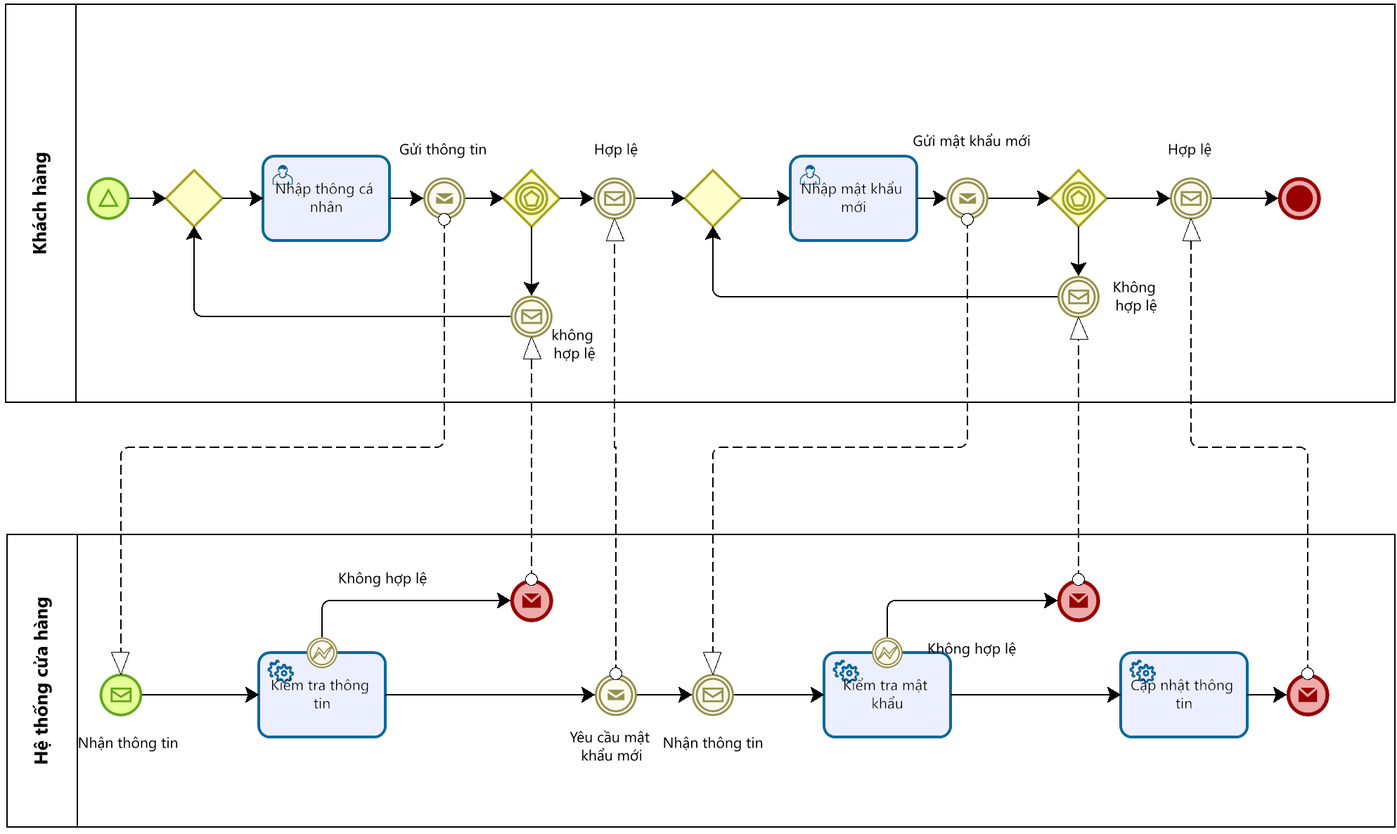
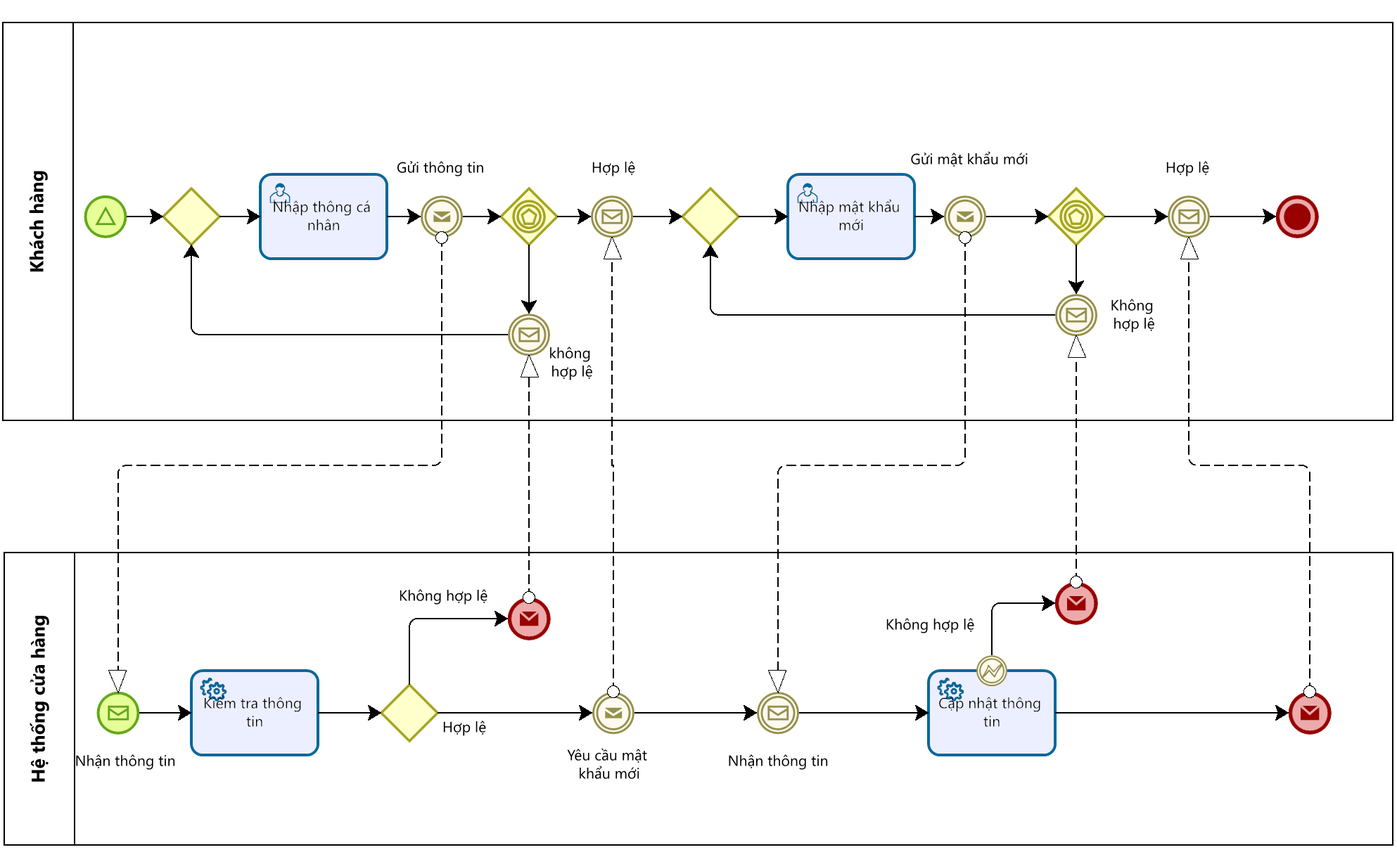
update BPMN

diff --git a/tex/BPMN-diagram.tex b/tex/BPMN-diagram.tex
@@ -3,178 +3,195 @@
 
 Các lược đồ BPMN được nhóm thiết kế trên app Bizagi.
 \subsection{Khách hàng mua hàng}
-    \begin{figure}[!htp]
-        \centering
-        \includegraphics[width=17cm]{img/BPMN/customer_buy/customer_buy.png}
-        \newline
-        \caption{Lược đồ BPMN cho quy trình khách hàng mua hàng}
-    \end{figure}
-    \textbf{Mô tả:} Quy trình bắt đầu khi người dùng bắt đầu truy cập vào trang web, khách hàng chọn cách thức mua hàng là bắt đầu từ tìm sản phẩm hoặc là bắt đầu mua từ những sản phẩm đã có sẵn trong giỏ hàng. Khi người dùng chọn tìm sản phẩm thì người dùng sẽ thực hiện quy trình con (sub-process) "Tìm sản phẩm". Sau khi thực hiện xong tìm sản phẩm và tìm thấy thì người dùng thực hiện xem thông tin chi tiết để hiểu rõ hơn về sản phẩm và quyết định có muốn thêm sản phẩm vào giỏ hàng hay không; hoặc khi người dùng đã biết về sản phẩm thì có thể thêm chọn thêm nhanh sản phẩm vào giỏ hàng. Sau khi thêm sản phẩm vào giỏ hàng thì người dùng thực hiện quy trình con quản lý giỏ hàng để lựa chọn cũng như cập nhật các đặc điểm mà người dùng mong muốn ở sản phẩm. Sau khi quản lý xong giỏ hàng thì người dùng cần chọn hành động tiếp tục tìm kiếm thêm sản phẩm để mua hàng hoặc là trực tiếp đi đến quy trình con "Mua hàng" và sau đó là kết thúc quy trình.
+\begin{figure}[!htp]
+	\centering
+	\includegraphics[width=17cm]{img/BPMN/customer_buy/customer_buy.png}
+	\newline
+	\caption{Lược đồ BPMN cho quy trình khách hàng mua hàng}
+\end{figure}
+\textbf{Mô tả:} Quy trình bắt đầu khi người dùng bắt đầu truy cập vào trang web, khách hàng chọn cách thức mua hàng là bắt đầu từ tìm sản phẩm hoặc là bắt đầu mua từ những sản phẩm đã có sẵn trong giỏ hàng. Khi người dùng chọn tìm sản phẩm thì người dùng sẽ thực hiện quy trình con (sub-process) "Tìm sản phẩm". Sau khi thực hiện xong tìm sản phẩm và tìm thấy thì người dùng thực hiện xem thông tin chi tiết để hiểu rõ hơn về sản phẩm và quyết định có muốn thêm sản phẩm vào giỏ hàng hay không; hoặc khi người dùng đã biết về sản phẩm thì có thể thêm chọn thêm nhanh sản phẩm vào giỏ hàng. Sau khi thêm sản phẩm vào giỏ hàng thì người dùng thực hiện quy trình con quản lý giỏ hàng để lựa chọn cũng như cập nhật các đặc điểm mà người dùng mong muốn ở sản phẩm. Sau khi quản lý xong giỏ hàng thì người dùng cần chọn hành động tiếp tục tìm kiếm thêm sản phẩm để mua hàng hoặc là trực tiếp đi đến quy trình con "Mua hàng" và sau đó là kết thúc quy trình.
 
 
-    \begin{figure}[!htp]
-        \centering
-        \includegraphics[width=13cm]{img/BPMN/customer_buy/customer_search_product.png}
-        \newline
-        \caption{Lược đồ BPMN cho quy trình con tìm kiếm sản phẩm}
-    \end{figure}
-    \textbf{Mô tả:} Đây là 1 quy trình con chứa quy trình tìm kiếm sản phẩm mà người dùng muốn tìm kiếm. Bắt đầu từ việc chọn cách duyệt bằng cách duyệt theo ngẫu hứng hay duyệt theo ý muốn. Khi người dũng duyệt theo ý muốn thì thực hiện quy trình con "Chọn loại sản phẩm" để chọn nhưng loại sản phẩm theo ý muốn của khách hàng. Sau khi chọn loại sản phẩm thì hệ thống sẽ nhận thông tin và xử lý, sau đó phản hồi kết quả và người dùng kiểm tra kết quả tìm kiếm và kết thúc quy trình con này.
+\begin{figure}[!htp]
+	\centering
+	\includegraphics[width=13cm]{img/BPMN/customer_buy/customer_search_product.png}
+	\newline
+	\caption{Lược đồ BPMN cho quy trình con tìm kiếm sản phẩm}
+\end{figure}
+\textbf{Mô tả:} Đây là 1 quy trình con chứa quy trình tìm kiếm sản phẩm mà người dùng muốn tìm kiếm. Bắt đầu từ việc chọn cách duyệt bằng cách duyệt theo ngẫu hứng hay duyệt theo ý muốn. Khi người dũng duyệt theo ý muốn thì thực hiện quy trình con "Chọn loại sản phẩm" để chọn nhưng loại sản phẩm theo ý muốn của khách hàng. Sau khi chọn loại sản phẩm thì hệ thống sẽ nhận thông tin và xử lý, sau đó phản hồi kết quả và người dùng kiểm tra kết quả tìm kiếm và kết thúc quy trình con này.
 
-    \begin{figure}[!htp]
-        \centering
-        \includegraphics[width=12cm]{img/BPMN/customer_buy/customer_select_type.png}
-        \newline
-        \caption{Lược đồ BPMN cho quy trình con chọn loại sản phẩm mà khác hàng muốn tìm}
-    \end{figure}
-    \textbf{Mô tả:} Đây là 1 quy trình con chứa quy trình chọn loại sản phẩm mà người dùng muốn tìm kiếm. Bắt đầu từ việc chọn loại duyệt thì người dùng có thể chọn duyệt theo thể loại hoặc duyệt theo tên tìm kiếm hoặc duyệt theo sự kiện.
-    
-    \begin{figure}[!htp]
-        \centering
-        \includegraphics[width=12cm]{img/BPMN/customer_buy/customer_product_detail.png}
-        \newline
-        \caption{Lược đồ BPMN cho quy trình xem xét thông tin chi tiết của sản phẩm}
-    \end{figure}
-    \textbf{Mô tả:} Đây là 1 quy trình con chứa quy trình xem thông tin chi tiết của sản phẩm, sau khi khách hàng chọn sản phẩm muốn xem thông tin chi tiết thì hệ thống sẽ thực hiện lấy thông tin chi tiết sản phẩm từ cơ sở dữ liệu và phản hồi kết quả về cho khách hàng. Sau khi nhận được kết quả thì khách hàng xem thông tin chi tiết của sản phẩm và kết thúc quy trình.
+\begin{figure}[!htp]
+	\centering
+	\includegraphics[width=12cm]{img/BPMN/customer_buy/customer_select_type.png}
+	\newline
+	\caption{Lược đồ BPMN cho quy trình con chọn loại sản phẩm mà khác hàng muốn tìm}
+\end{figure}
+\textbf{Mô tả:} Đây là 1 quy trình con chứa quy trình chọn loại sản phẩm mà người dùng muốn tìm kiếm. Bắt đầu từ việc chọn loại duyệt thì người dùng có thể chọn duyệt theo thể loại hoặc duyệt theo tên tìm kiếm hoặc duyệt theo sự kiện.
 
-    \begin{figure}[!htp]
-        \centering
-        \includegraphics[width=15cm]{img/BPMN/customer_buy/customer_add_to_card.png}
-        \newline
-        \caption{Lược đồ BPMN cho quy trình thêm sản phẩm vào giỏ hàng}
-    \end{figure} 
-    \textbf{Mô tả:} Đây là 1 quy trình con chứa quy trình thêm sản phẩm vào giỏ hàng, sau khi khách hàng xem thông tin chi tiết và muốn mua sản phẩm thì người dùng các thông tin sản phẩm mà khách hàng muốn thêm sau đó xác nhận thêm vào giỏ hàng. Thông tin sản phẩm khách hàng chọn thêm vào giỏ hàng được gửi đi và hệ thống thực hiện kiểm tra tài khoản khách hàng đã đăng nhập chưa, sau khi xác nhận được đã đăng nhập thì hệ thống kiểm tra thông tin và cập nhật thông tin sản phẩm vào giỏ hàng, sau đó gửi kết quả về phía khách hàng. Sau khi nhận được kết quả thì người dùng kiểm tra kết quả và kết thúc quy trình.
-     
-    \begin{figure}[!htp]
-        \centering
-        \includegraphics[width=15cm]{img/BPMN/customer_buy/customer_add_fast.png}
-        \newline
-        \caption{Lược đồ BPMN cho quy trình thêm nhanh sản phẩm vào giỏ hàng}
-    \end{figure}
-    \textbf{Mô tả:} Đây là 1 quy trình con chứa quy trình thêm nhanh sản phẩm vào giỏ hàng, sau khi khách hàng chọn thêm nhanh sản phẩm vào giỏ hàng. Thông tin sản phẩm khách hàng chọn thêm vào giỏ hàng được gửi đi và hệ thống thực hiện kiểm tra tài khoản khách hàng đã đăng nhập chưa, sau khi xác nhận được đã đăng nhập thì hệ thống kiểm tra thông tin và cập nhật thông tin sản phẩm vào giỏ hàng, sau đó gửi kết quả về phía khách hàng. Sau khi nhận được kết quả thì người dùng kiểm tra kết quả và kết thúc quy trình.
- 
-    \begin{figure}[!htp]
-        \centering
-        \includegraphics[width=15cm]{img/BPMN/customer_buy/customer_cart.png}
-        \newline
-        \caption{Lược đồ BPMN cho quy trình quản lý giỏ hàng}
-    \end{figure}
-    \textbf{Mô tả:} Đây là 1 quy trình con chứa quy trình quản lý giỏ hàng. Quy trình bắt đầu từ khi khách hàng chọn vào giỏ hàng. Hệ thống thực hiện kiểm tra tài khoản rồi sau đó truy xuất dữ liệu giỏ hàng của tài khoản khách hàng và phản hồi về lại cho khách hàng. Khách hàng thực thực hiện xem xét giỏ hàng và thực hiện thay đổi thông tin sản phẩm trong giỏ hàng bằng cách thay đổi thông tin sản phẩm hay xóa sản phẩm khỏi giỏ hàng, hệ thống nhận thông tin thay đổi sau đó kiểm tra thông tin và cập nhật thông tin giỏ hàng rồi trả về kết quả, khách hàng nhận kết quả và kết thúc quy trình.
- 
-    \begin{figure}[!htp]
-        \centering
-        \includegraphics[width=15cm]{img/BPMN/customer_buy/customer_buy_order.png}
-        \newline
-        \caption{Lược đồ BPMN cho quy trình mua hàng}
-    \end{figure}
-    \textbf{Mô tả:} Đây là 1 quy trình con chứa quy trình đặt mua hàng của khách hàng. Khách hàng chọn các sản phẩm trong giỏ hàng mà bản thân muốn mua và chọn "Đặt hàng". Hệ thống thực hiện kiểm tra hàng hóa và phản hồi về lại cho khách hàng. Sau khi chọn "Đặt hàng" và nhận kết quả xác nhận hàng hóa, khách hàng thực thực hiện nhập địa chỉ giao hàng, hệ thống sẽ thực hiện xử lý giao hàng và giá tiền để tính tổng hóa hơn cho khách hàng. Khách hàng thực hiện kiểm tra thông tin sau khi nhận lại thông tin giá tiền, nếu chưa chính xác về địa chỉ gia hàng thì quay lại nhập địa chỉ giao hàng, nếu đã chính xác thì thực hiện chọn phương thức thanh toán và chọn "Thanh toán". Hệ thống kiểm tra thông tin thanh toán mà người dùng chọn sau đó thực hiện quy trình "Thanh toán", sau khi kết thúc quy trình thanh toán thì hệ thống phản hồi và hiển thị thông báo kết quả đơn hàng, nếu thành công thì kết thúc quy trình, nếu thất bại thì khách hàng quay lại chọn phương thức thanh toán phù hợp.
- 
-    \begin{figure}[!htp]
-        \centering
-        \includegraphics[width=5in]{img/BPMN/customer_buy/customer_calc_fee.png}
-        \newline
-        \caption{Lược đồ BPMN cho quy trình tính toán chi phí đơn hàng}
-    \end{figure}
-    \textbf{Mô tả:} Đây là 1 quy trình con chứa quy trình tính toán chi phí đơn hàng. Hệ thống thực hiện kiểm tra kho để tạo đơn hàng vận chuyển, nếu không có kho nào đủ hàng cho khách hàng thì cần thực hiện tính toán trao đổi kho và gửi thông tin trao đổi hàng cho kho. Sau khi thực hiện tính toán kho thì thực hiện tính toán giá giao hàng và tính tổng tiền của đơn hàng.
- 
-    \begin{figure}[!htp]
-        \centering
-        \includegraphics[width=15cm]{img/BPMN/customer_buy/customer_payment.png}
-        \newline
-        \caption{Lược đồ BPMN cho quy trình thanh toán đơn hàng}
-    \end{figure}
-    \textbf{Mô tả:} Đây là 1 quy trình con chứa quy trình thanh toán đơn hàng. Quy trình bắt đầu từ sự kiện nhận thông tin thanh toán, nếu thanh toán trực tiếp khi nhận hàng thì thực hiện cập nhật đơn hàng. Nếu phương thức thanh toán là trực tuyên thì hệ thống thực hiện gửi thông tin thanh toán cho bên thứ ba tương ứng với bên mà người dùng chọn, sau đó chờ bên thứ ba trả về kết quả thanh toán. Sau khi nhận được kết quả từ bên thứ ba thì thông báo kết quả với người dùng, nếu thanh toán thành công thì thực hiện cập nhật đơn hàng vào hệ thống, khi cập nhật đơn hàng thành công thì thực hiện gửi thông tin vận chuyển đến dịch vụ vận chuyển của bên thứ ba và kết thúc quy trình.
- 
+\begin{figure}[!htp]
+	\centering
+	\includegraphics[width=12cm]{img/BPMN/customer_buy/customer_product_detail.png}
+	\newline
+	\caption{Lược đồ BPMN cho quy trình xem xét thông tin chi tiết của sản phẩm}
+\end{figure}
+\textbf{Mô tả:} Đây là 1 quy trình con chứa quy trình xem thông tin chi tiết của sản phẩm, sau khi khách hàng chọn sản phẩm muốn xem thông tin chi tiết thì hệ thống sẽ thực hiện lấy thông tin chi tiết sản phẩm từ cơ sở dữ liệu và phản hồi kết quả về cho khách hàng. Sau khi nhận được kết quả thì khách hàng xem thông tin chi tiết của sản phẩm và kết thúc quy trình.
+
+\begin{figure}[!htp]
+	\centering
+	\includegraphics[width=15cm]{img/BPMN/customer_buy/customer_add_to_card.png}
+	\newline
+	\caption{Lược đồ BPMN cho quy trình thêm sản phẩm vào giỏ hàng}
+\end{figure}
+\textbf{Mô tả:} Đây là 1 quy trình con chứa quy trình thêm sản phẩm vào giỏ hàng, sau khi khách hàng xem thông tin chi tiết và muốn mua sản phẩm thì người dùng các thông tin sản phẩm mà khách hàng muốn thêm sau đó xác nhận thêm vào giỏ hàng. Thông tin sản phẩm khách hàng chọn thêm vào giỏ hàng được gửi đi và hệ thống thực hiện kiểm tra tài khoản khách hàng đã đăng nhập chưa, sau khi xác nhận được đã đăng nhập thì hệ thống kiểm tra thông tin và cập nhật thông tin sản phẩm vào giỏ hàng, sau đó gửi kết quả về phía khách hàng. Sau khi nhận được kết quả thì người dùng kiểm tra kết quả và kết thúc quy trình.
+
+\begin{figure}[!htp]
+	\centering
+	\includegraphics[width=15cm]{img/BPMN/customer_buy/customer_add_fast.png}
+	\newline
+	\caption{Lược đồ BPMN cho quy trình thêm nhanh sản phẩm vào giỏ hàng}
+\end{figure}
+\textbf{Mô tả:} Đây là 1 quy trình con chứa quy trình thêm nhanh sản phẩm vào giỏ hàng, sau khi khách hàng chọn thêm nhanh sản phẩm vào giỏ hàng. Thông tin sản phẩm khách hàng chọn thêm vào giỏ hàng được gửi đi và hệ thống thực hiện kiểm tra tài khoản khách hàng đã đăng nhập chưa, sau khi xác nhận được đã đăng nhập thì hệ thống kiểm tra thông tin và cập nhật thông tin sản phẩm vào giỏ hàng, sau đó gửi kết quả về phía khách hàng. Sau khi nhận được kết quả thì người dùng kiểm tra kết quả và kết thúc quy trình.
+
+\begin{figure}[!htp]
+	\centering
+	\includegraphics[width=15cm]{img/BPMN/customer_buy/customer_cart.png}
+	\newline
+	\caption{Lược đồ BPMN cho quy trình quản lý giỏ hàng}
+\end{figure}
+\textbf{Mô tả:} Đây là 1 quy trình con chứa quy trình quản lý giỏ hàng. Quy trình bắt đầu từ khi khách hàng chọn vào giỏ hàng. Hệ thống thực hiện kiểm tra tài khoản rồi sau đó truy xuất dữ liệu giỏ hàng của tài khoản khách hàng và phản hồi về lại cho khách hàng. Khách hàng thực thực hiện xem xét giỏ hàng và thực hiện thay đổi thông tin sản phẩm trong giỏ hàng bằng cách thay đổi thông tin sản phẩm hay xóa sản phẩm khỏi giỏ hàng, hệ thống nhận thông tin thay đổi sau đó kiểm tra thông tin và cập nhật thông tin giỏ hàng rồi trả về kết quả, khách hàng nhận kết quả và kết thúc quy trình.
+
+\begin{figure}[!htp]
+	\centering
+	\includegraphics[width=15cm]{img/BPMN/customer_buy/customer_buy_order.png}
+	\newline
+	\caption{Lược đồ BPMN cho quy trình mua hàng}
+\end{figure}
+\textbf{Mô tả:} Đây là 1 quy trình con chứa quy trình đặt mua hàng của khách hàng. Khách hàng chọn các sản phẩm trong giỏ hàng mà bản thân muốn mua và chọn "Đặt hàng". Hệ thống thực hiện kiểm tra hàng hóa và phản hồi về lại cho khách hàng. Sau khi chọn "Đặt hàng" và nhận kết quả xác nhận hàng hóa, khách hàng thực thực hiện nhập địa chỉ giao hàng, hệ thống sẽ thực hiện xử lý giao hàng và giá tiền để tính tổng hóa hơn cho khách hàng. Khách hàng thực hiện kiểm tra thông tin sau khi nhận lại thông tin giá tiền, nếu chưa chính xác về địa chỉ gia hàng thì quay lại nhập địa chỉ giao hàng, nếu đã chính xác thì thực hiện chọn phương thức thanh toán và chọn "Thanh toán". Hệ thống kiểm tra thông tin thanh toán mà người dùng chọn sau đó thực hiện quy trình "Thanh toán", sau khi kết thúc quy trình thanh toán thì hệ thống phản hồi và hiển thị thông báo kết quả đơn hàng, nếu thành công thì kết thúc quy trình, nếu thất bại thì khách hàng quay lại chọn phương thức thanh toán phù hợp.
+
+\begin{figure}[!htp]
+	\centering
+	\includegraphics[width=5in]{img/BPMN/customer_buy/customer_calc_fee.png}
+	\newline
+	\caption{Lược đồ BPMN cho quy trình tính toán chi phí đơn hàng}
+\end{figure}
+\textbf{Mô tả:} Đây là 1 quy trình con chứa quy trình tính toán chi phí đơn hàng. Hệ thống thực hiện kiểm tra kho để tạo đơn hàng vận chuyển, nếu không có kho nào đủ hàng cho khách hàng thì cần thực hiện tính toán trao đổi kho và gửi thông tin trao đổi hàng cho kho. Sau khi thực hiện tính toán kho thì thực hiện tính toán giá giao hàng và tính tổng tiền của đơn hàng.
+
+\begin{figure}[!htp]
+	\centering
+	\includegraphics[width=15cm]{img/BPMN/customer_buy/customer_payment.png}
+	\newline
+	\caption{Lược đồ BPMN cho quy trình thanh toán đơn hàng}
+\end{figure}
+\textbf{Mô tả:} Đây là 1 quy trình con chứa quy trình thanh toán đơn hàng. Quy trình bắt đầu từ sự kiện nhận thông tin thanh toán, nếu thanh toán trực tiếp khi nhận hàng thì thực hiện cập nhật đơn hàng. Nếu phương thức thanh toán là trực tuyên thì hệ thống thực hiện gửi thông tin thanh toán cho bên thứ ba tương ứng với bên mà người dùng chọn, sau đó chờ bên thứ ba trả về kết quả thanh toán. Sau khi nhận được kết quả từ bên thứ ba thì thông báo kết quả với người dùng, nếu thanh toán thành công thì thực hiện cập nhật đơn hàng vào hệ thống, khi cập nhật đơn hàng thành công thì thực hiện gửi thông tin vận chuyển đến dịch vụ vận chuyển của bên thứ ba và kết thúc quy trình.
+
 
 \newpage
+
+
 \subsection{Quản lý sự kiện}
 
 \subsubsection{Thêm sự kiện}
 
 \begin{figure}[!htp]
-    \centering
-    \includegraphics[width=14cm]{img/BPMN/event/add_event.png}
-    \newline
-    \caption{Lược đồ BPMN cho quy trình thêm sự kiện}
+	\centering
+	\includegraphics[width=14cm]{img/BPMN/event/add_event.png}
+	\newline
+	\caption{Lược đồ BPMN cho quy trình thêm sự kiện}
 \end{figure}
 Mô tả: quy trình được bắt đầu bởi sự kiện nhận thông tin cho sự kiện sắp tới, sau khi nhận được thông tin sự kiện mới thì quản trị viên nhập thông tin cho sự kiện và xác nhận tạo sự kiện. Sau khi thông tin sự kiện mới được gửi đi thì hệ thống sẽ kiểm tra thông tin sự kiện có hợp lệ hay không, nếu hợp lệ thì cập nhật sự kiện mới vào hệ thống và kết thúc quy trình, nếu không hợp lệ thì quản trị viên cần quay lại task nhập lại thông tin cho sự kiện.
 
 \subsubsection{Sửa sự kiện}
 
 \begin{figure}[!htp]
-    \centering
-    \includegraphics[width=14cm]{img/BPMN/event/edit_event.png}
-    \newline
-    \caption{Lược đồ BPMN cho quy trình chỉnh sửa sự kiện}
+	\centering
+	\includegraphics[width=14cm]{img/BPMN/event/edit_event.png}
+	\newline
+	\caption{Lược đồ BPMN cho quy trình chỉnh sửa sự kiện}
 \end{figure}
 Mô tả: quy trình được bắt đầu bởi sự kiện nhận thông tin thay đổi sự kiện, sau khi nhận được thông tin sự kiện cần cập nhật thì quản trị viên chọn sự cần cần sửa, sau đó nhập thông tin cho sự kiện và xác nhận cập nhật sự kiện. Sau khi thông tin cập nhật sự kiện được gửi đi thì hệ thống sẽ kiểm tra thông tin sự kiện có hợp lệ hay không, nếu hợp lệ thì cập nhật lại sự kiện vào hệ thống và kết thúc quy trình, nếu không hợp lệ thì quản trị viên cần quay lại task nhập lại thông tin cho sự kiện.
 
 \subsubsection{Xóa sự kiện}
 
 \begin{figure}[!htp]
-    \centering
-    \includegraphics[width=14cm]{img/BPMN/event/delete_event.png}
-    \newline
-    \caption{Lược đồ BPMN cho quy trình xóa sự kiện}
+	\centering
+	\includegraphics[width=14cm]{img/BPMN/event/delete_event.png}
+	\newline
+	\caption{Lược đồ BPMN cho quy trình xóa sự kiện}
 \end{figure}
 Mô tả: quy trình được bắt đầu bởi sự kiện nhận thông tin xóa sự kiện, sau khi nhận được thông tin sự kiện cần cập nhật thì quản trị viên chọn sự cần cần xóa và chọn xóa sự kiện. Sau khi thông tin sự kiện cần xóa được gửi đi thì hệ thống sẽ kiểm tra thông tin sự kiện có hợp lệ hay không, nếu hợp lệ thì cập nhật xóa sự kiện khỏi hệ thống và kết thúc quy trình, nếu không hợp lệ thì thông báo thất bại và kết thúc quy trình.
 
+
 \subsection{Khách hàng mua hàng trực tiếp}
 \begin{figure}[!htp]
-    \centering
-    \includegraphics[width=14cm]{img/BPMN/Hien/Customer_buyOffline.png}
-    \newline
-    \caption{Lược đồ BPMN cho quy trình khách hàng mua hàng trực tiếp}
+	\centering
+	\includegraphics[width=14cm]{img/BPMN/Hien/Customer_buyOffline.png}
+	\newline
+	\caption{Lược đồ BPMN cho quy trình khách hàng mua hàng trực tiếp}
 \end{figure}
+
+Khách hàng sau khi đến cửa hàng sẽ thực hiện chọn sản phẩm và thông báo cho nhân viên sản phẩm của mình. Nhân viên thực hiện nhập đơn hàng và báo giá cho khách hàng. Khách hàng nhận thông tin và thực hiện thanh toán. Nhân viên nhân tiền và cập nhật hóa đơn trên hệ thống
 
 \subsection{Đăng nhập}
 \begin{figure}[!htp]
-    \centering
-    \includegraphics[width=14cm]{img/BPMN/Hien/Customer_login.png}
-    \newline
-    \caption{Lược đồ BPMN cho quy trình đăng nhập}
+	\centering
+	\includegraphics[width=14cm]{img/BPMN/Hien/Customer_login.png}
+	\newline
+	\caption{Lược đồ BPMN cho quy trình đăng nhập}
 \end{figure}
+
+Người dùng truy cập hệ thống nhập thông tin đăng nhập và chọn đăng nhập. Hệ thống thực hiện kiểm tra thông tin và trả thông báo thành công hoặc thất bại. Nếu thất bại sẽ yêu cầu người dùng đăng nhập lại
 
 \subsection{Đăng ký tài khoản}
 \begin{figure}[!htp]
-    \centering
-    \includegraphics[width=14cm]{img/BPMN/Hien/Customer_register.png}
-    \newline
-    \caption{Lược đồ BPMN cho quy trình đăng ký tài khoản mới}
+	\centering
+	\includegraphics[width=14cm]{img/BPMN/Hien/Customer_register.png}
+	\newline
+	\caption{Lược đồ BPMN cho quy trình đăng ký tài khoản mới}
 \end{figure}
+
+Người dùng nhập thông tin cá nhân và chọn đăng ký. Hệ thống nhận thông tin và cập nhật. Hệ thống thông báo thành công nếu thành công và thông báo thất bại nếu thông tin không hợp lệ
 
 
 \subsection{Làm mới mật khẩu}
 \begin{figure}[!htp]
-    \centering
-    \includegraphics[width=14cm]{img/BPMN/Hien/Customer_resetPassword.png}
-    \newline
-    \caption{Lược đồ BPMN cho quy trình làm mới mật khẩu}
+	\centering
+	\includegraphics[width=14cm]{img/BPMN/Hien/Customer_resetPassword.png}
+	\newline
+	\caption{Lược đồ BPMN cho quy trình làm mới mật khẩu}
 \end{figure}
 
+Người dùng nhập thông tin cá nhân và gửi. Hệ thống kiểm tra thông tin, nếu hợp lệ sẽ yêu cầu mật khẩu mới từ người dùng; ngược lại sẽ yêu cầu người dùng nhập lại thông tin. Sau khi người dùng nhập mật khẩu mới và gửi, hệ thống sẽ cập nhật thông tin và gửi thông báo thành công, nếu mật khẩu không hợp lệ sẽ yêu cầu người dùng nhập lại.
 
 
 \subsection{Quản lý chi nhánh}
 \begin{figure}[!htp]
-    \centering
-    \includegraphics[width=14cm]{img/BPMN/Hien/Branch_management.png}
-    \newline
-    \caption{Lược đồ BPMN cho quy trình quản lý chi nhánh}
+	\centering
+	\includegraphics[width=14cm]{img/BPMN/Hien/Branch_management.png}
+	\newline
+	\caption{Lược đồ BPMN cho quy trình quản lý chi nhánh}
 \end{figure}
+
+Khi quản trị viên truy cập, hệ thống sẽ lấy danh sách chi nhánh. Quản trị viên thực hiện thêm mới hoặc xem thông tin chi nhánh. Nêu thêm mới, quản trị viên sẽ nhập thông tin chi nhánh mới và cập nhật hệ thống. Nâu có thông tin không hợp lệ, hệ thống sẽ yêu cầu nhập lại thông tin. Nếu xem thông chi nhánh, hệ thống sẽ lấy thông tin chi tiết của chi nhánh đó. Quản trị viên có thể chỉ xem thông tin chi nhánh, chỉnh sửa thông tin hoặc xóa chi nhánh. Nếu chọn xóa, hệ thống sẽ kiểm tra và xóa nếu hợp lệ, ngược lại sẽ hiện thông tin chi tiết chi nhánh. Nếu chọn chỉnh sửa, hệ thống yêu cầu nhập thông tin sẽ kiểm tra thông tin nếu hợp lệ sẽ cập nhật thông tin, ngược lại sẽ yêu cầu nhập lại thông tin
 
 
 \subsection{Quản lý nhân viên}
 \begin{figure}[!htp]
-    \centering
-    \includegraphics[width=14cm]{img/BPMN/Hien/Employee_Management.png}
-    \newline
-    \caption{Lược đồ BPMN cho quy trình quản lý nhân viên}
+	\centering
+	\includegraphics[width=14cm]{img/BPMN/Hien/Employee_Management.png}
+	\newline
+	\caption{Lược đồ BPMN cho quy trình quản lý nhân viên}
 \end{figure}
+
+Khi quản trị viên truy cập, hệ thống sẽ lấy danh sách nhân viên. Quản trị viên thực hiện thêm mới hoặc xem thông tin nhân viên. Nêu thêm mới, quản trị viên sẽ nhập thông tin nhân viên mới và cập nhật hệ thống, nếu có thông tin không hợp lệ, hệ thống sẽ yêu cầu nhập lại thông tin. Nếu xem thông nhân viên, hệ thống sẽ lấy thông tin chi tiết của nhân viên đó. Quản trị viên có thể chỉ xem thông tin nhân viên, chỉnh sửa thông tin hoặc xóa nhân viên. Nếu chọn xóa, hệ thống sẽ kiểm tra và xóa nếu hợp lệ, ngược lại sẽ hiện thông tin chi tiết nhân viên. Nếu chọn chỉnh sửa, hệ thống yêu cầu nhập thông tin sẽ kiểm tra thông tin nếu hợp lệ sẽ cập nhật thông tin, ngược lại sẽ yêu cầu nhập lại thông tin
+
+
 
 \subsubsection*{Tạo yêu cầu thêm, xóa nhân viên}
 \begin{figure}[!htp]
-    \centering
-    \includegraphics[width=14cm]{img/BPMN/Hien/Employee_request.png}
-    \newline
-    \caption{Lược đồ BPMN cho quy trình quản lý nhân viên}
+	\centering
+	\includegraphics[width=14cm]{img/BPMN/Hien/Employee_request.png}
+	\newline
+	\caption{Lược đồ BPMN cho quy trình tạo yêu cầu thêm, xóa nhân viên}
 \end{figure}
 
+Khi truy cập hệ thống, quản lý có thể chọn loại yêu cầu. Nếu là yêu cầu thêm, hệ thống yêu cầu nhập thông tin nhân viên mới và tạo yêu cầu, nếu thông tin không hợp lệ sẽ phải nhập lại thông tin. Nếu là yêu cầu xóa, hệ thống yêu cầu chọn nhân viên và tạo yêu cầu, nếu không hợp lệ sẽ yêu cầu chọn nhân viên khác

diff --git a/main.tex b/main.tex
@@ -196,7 +196,7 @@
 
 % Giới thiệu
 \chapter{Tổng quan}
-\input{tex/intro}
+% \input{tex/intro}
 
 %%%%%%%%%%%%%%%%%%%%%%%%%%%%%%%%%%%%
 
@@ -206,7 +206,7 @@
 
 %%%%%%%%%%%%%%%%%%%%%%%%%%%%%%%%%%%%
 
-% \chapter{Thiết kế hệ thống}
+\chapter{Thiết kế hệ thống}
 % Requirement
 % \input{tex/Requirement}
 
@@ -216,7 +216,7 @@
 
 \newpage
 % BPMN
-% \input{tex/BPMN-diagram}
+\input{tex/BPMN-diagram}
 
 \newpage
 % Architecture
